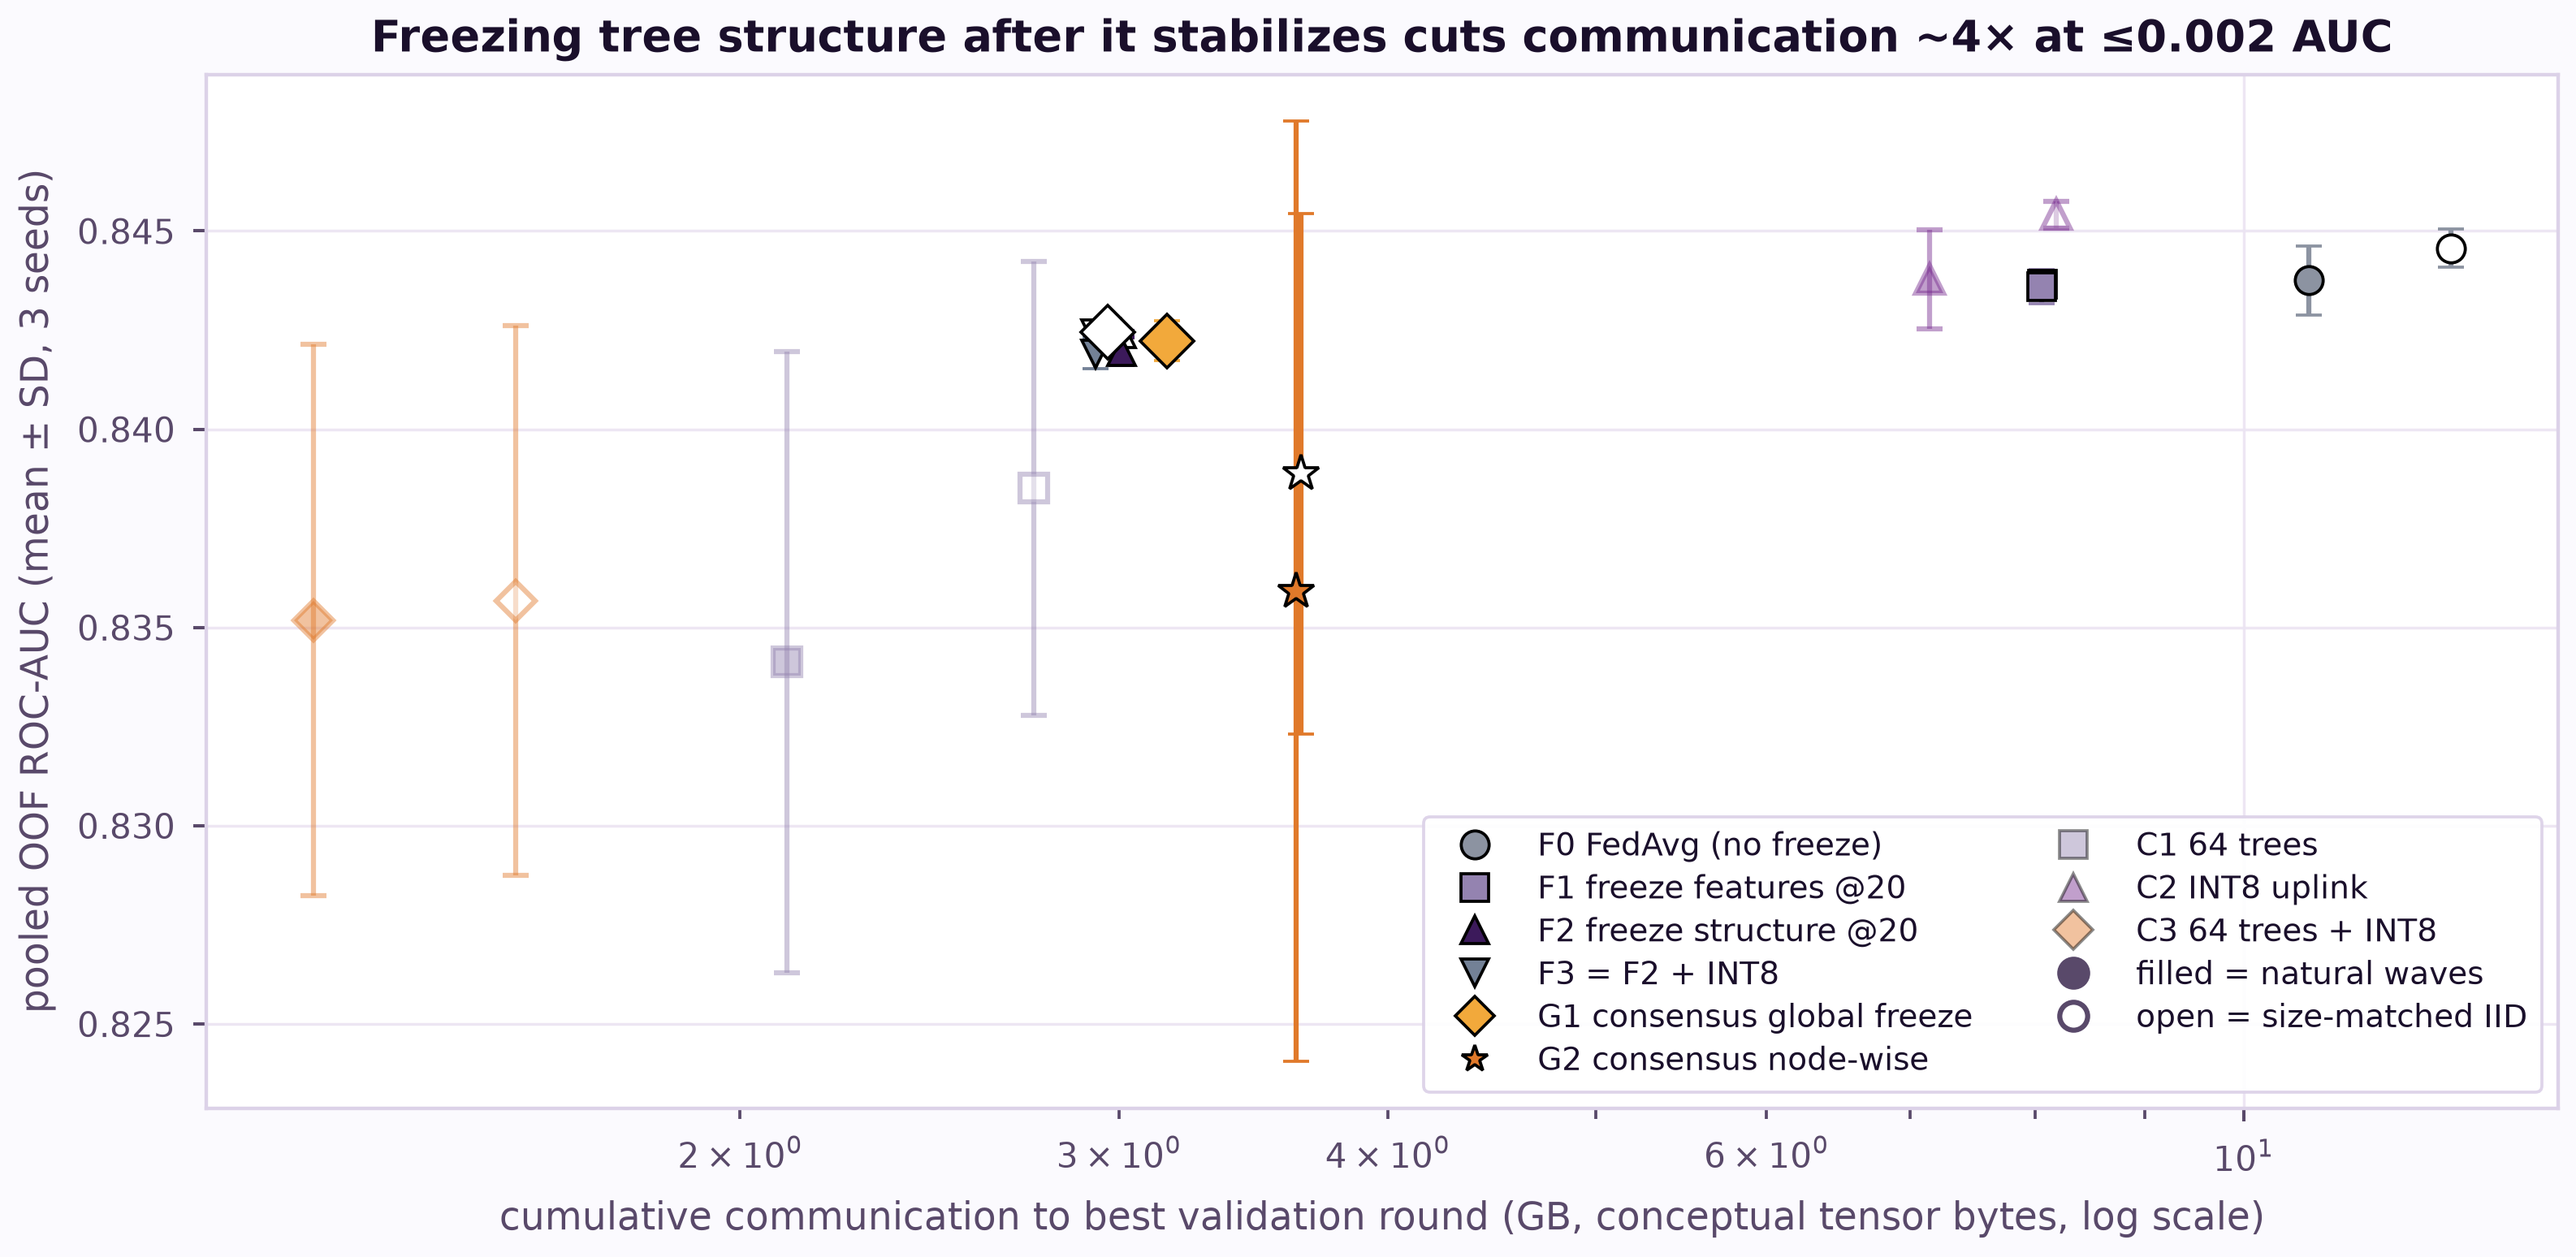
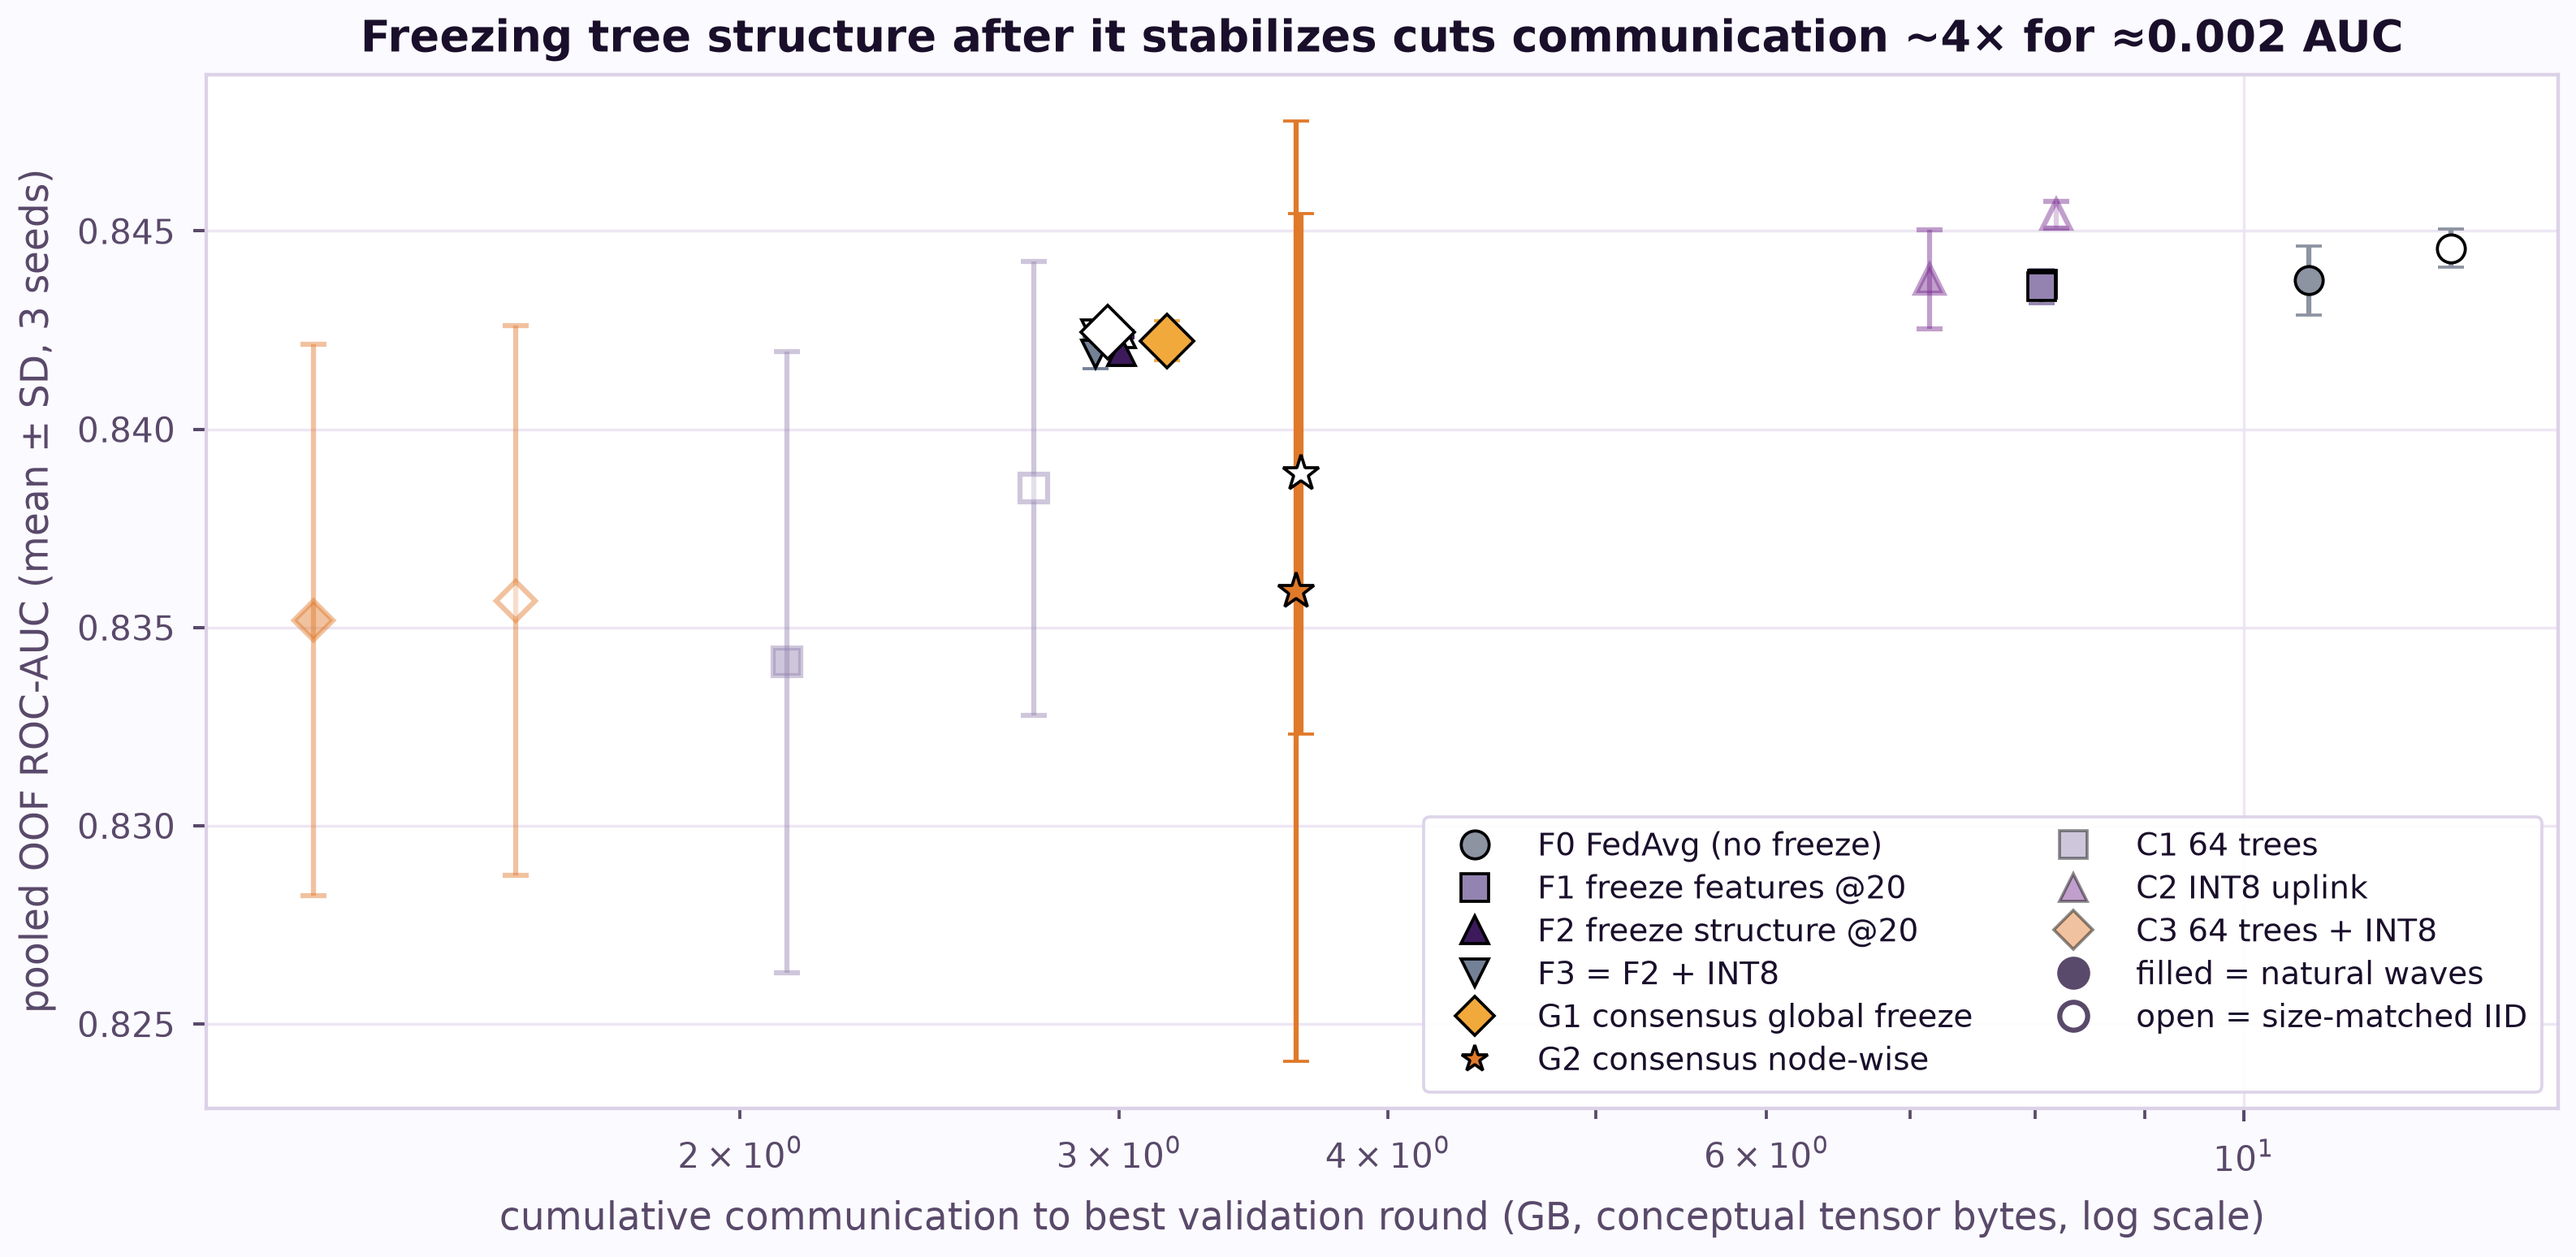
fix: precise fig08 title wording and curated role labels
The F2/F3 AUC loss is -0.0018/-0.0022, so the frontier title now says ~0.002 rather than <=0.002;
main_performance.csv labels the MLPs and local-only GRANDE as controls. Plotted data unchanged.

Changed region(s): [[0.1248, 0.0, 0.9363, 0.062]]

diff --git a/scripts/build_curated_results.py b/scripts/build_curated_results.py
@@ -65,9 +65,15 @@ def main_performance():
     p_oof, p_fold = "results/phase2b/summary/oof_summary_all.csv", "results/phase2b/summary/per_fold_summary_all.csv"
     o, f = pd.read_csv(ROOT / p_oof), pd.read_csv(ROOT / p_fold)
     df = o.merge(f, on=["method", "partition"])
-    role = {"none": "primary (centralized reference)", "natural": "primary", "iid": "control (size-matched IID)",
-            "dirichlet0.1": "stress test (amendment A1)"}
-    df.insert(2, "role", df.partition.map(role))
+    def role(m, p):
+        if m == "central_grande":
+            return "primary reference (centralized)"
+        if m == "fedavg_grande":
+            return "primary" if p == "natural" else "primary, IID control partition"
+        if m == "local_grande":
+            return "control (no collaboration)"
+        return "control (MLP model class)"
+    df.insert(2, "role", [role(m, p) for m, p in zip(df.method, df.partition)])
     df = df[df.partition != "dirichlet0.1"].reset_index(drop=True)
     return prov(df, [p_oof, p_fold], "2B", "2B")
 

diff --git a/src/fedgrande/plotting/figures.py b/src/fedgrande/plotting/figures.py
@@ -267,7 +267,7 @@ def fig08_frontier():
                 Line2D([], [], color=T.SUBTEXT, marker="o", ls="none", mfc="white", label="open = size-matched IID")]
     T.legend(ax, handles=handles, loc="lower right", ncol=2, fontsize=6.3)
     T.style_axis(ax)
-    T.title(ax, "Freezing tree structure after it stabilizes cuts communication ~4× at ≤0.002 AUC")
+    T.title(ax, "Freezing tree structure after it stabilizes cuts communication ~4× for ≈0.002 AUC")
     return _save(fig, "fig08_communication_frontier", d)
 
 
